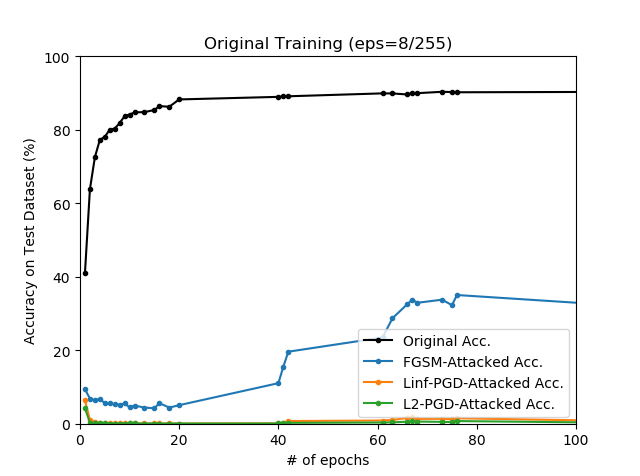
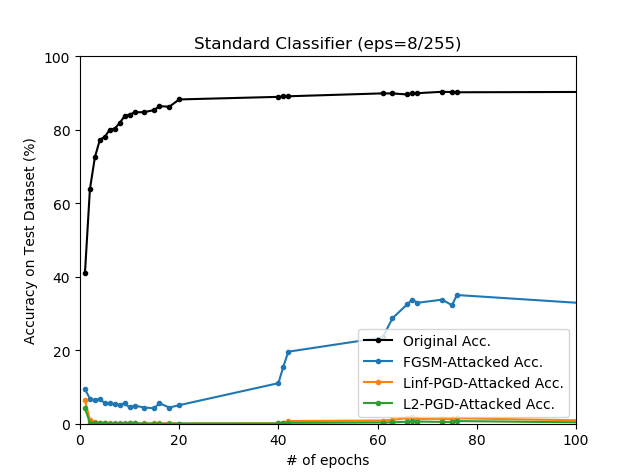
.

Changed region(s): [[0.3125, 0.0588, 0.7188, 0.1176]]

diff --git a/README.md b/README.md
@@ -1,10 +1,6 @@
 ## Adversarial Training (CIFAR-10)
 
-### Original Classifier
-
-<p align="center">
-    <img width=50% src="./md/eps2/plot0.png"><img width=50% src="./md/eps8/plot0.png">
-</p>
+### Standard Training
 
 ```
 python train.py --device cuda
@@ -12,9 +8,19 @@ python train.py --device cuda
                 --batch_size 32
                 --lr 0.01
                 --lr_decay 20
-
-* data augmentation: RandomHorizontalFlip
 ```
+
+<p align="center">
+    <img width=50% src="./md/eps2/plot0.png"><img width=50% src="./md/eps8/plot0.png">
+</p>
+
+#### eps = 2/255
+
+| epoch | Original Acc. | FGSM-Attacked Acc. | Linf-PGD-Attacked Acc. | L2-PGD Attacked Acc. |
+| :-:   |  -:           |  -:                |  -:                    | -:                   |
+| e076  | 90.19 %       | 51.35 %            | 18.64 %                | 12.97 %              |
+
+#### eps = 8/255
 
 | epoch | Original Acc. | FGSM-Attacked Acc. | Linf-PGD-Attacked Acc. | L2-PGD Attacked Acc. |
 | :-:   |  -:           |  -:                |  -:                    | -:                   |
